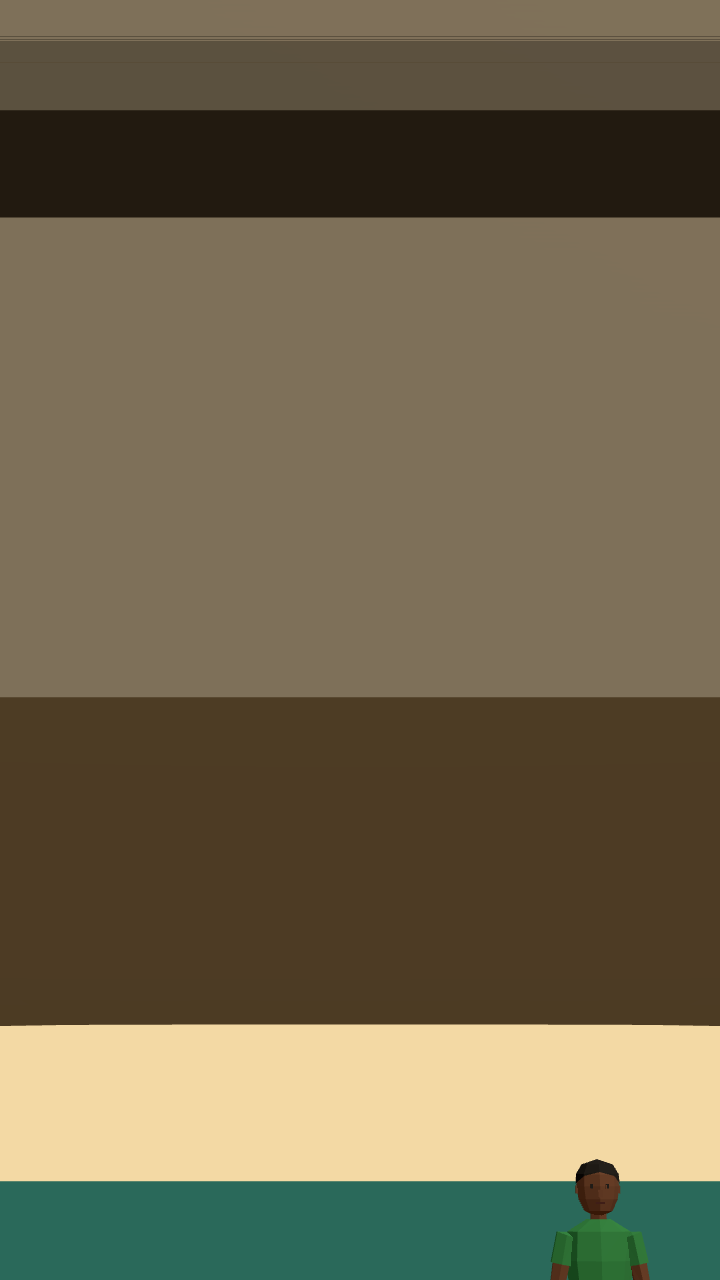
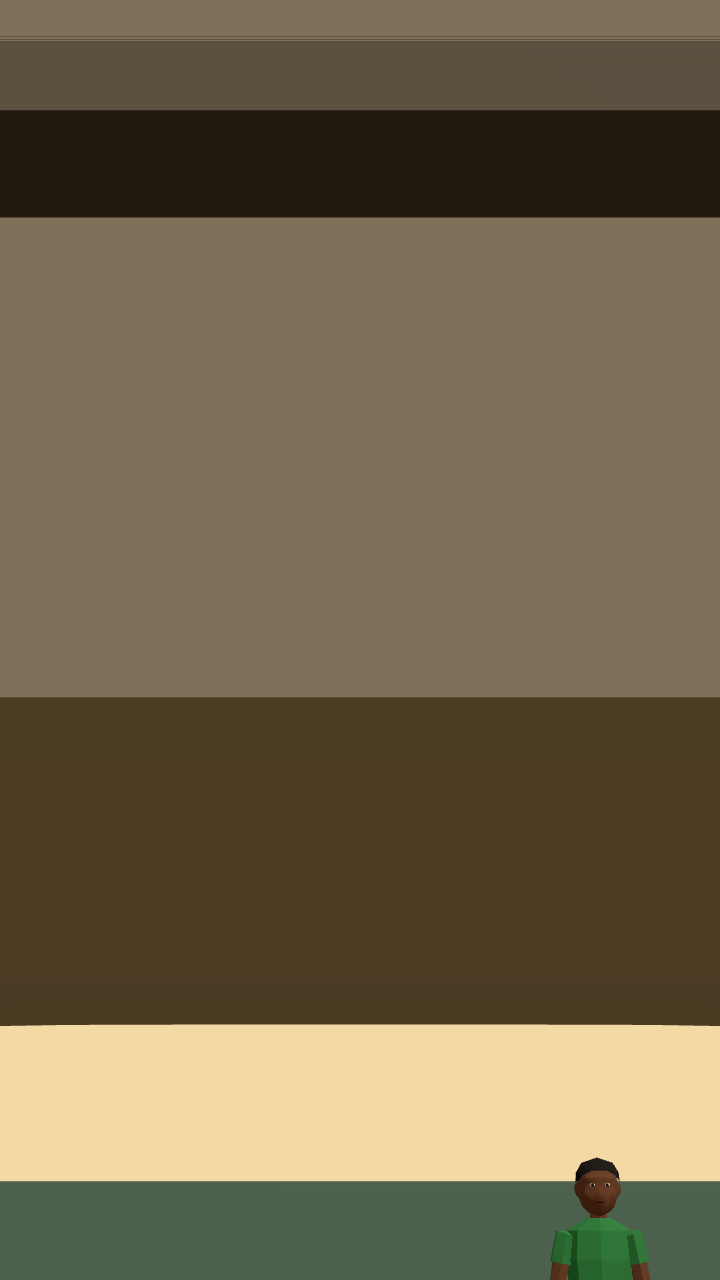
The palette gains lagoon for the bridge's water, and the stage shoots the bridge on it
- the drain's depth recorded as an open question

Changed region(s): [[0.0, 0.9062, 1.0, 1.0]]

diff --git a/tools/assets/catalog.ts b/tools/assets/catalog.ts
@@ -46,7 +46,7 @@ export interface CatalogEntry {
   /** Is one of the six examples later pieces are judged against. */
   example?: boolean;
   /** The ground in the shots, when it is not sand. */
-  ground?: "teal";
+  ground?: "lagoon";
   /** Where the far phone shot stands, when the landmark is first seen from somewhere particular. */
   farView?: { position: [number, number, number]; target: [number, number, number] };
 }
@@ -170,7 +170,7 @@ export const CATALOG: CatalogEntry[] = [
     example: true,
     views: [...ELEVATIONS, "plan", "phone", "phoneFar"],
     // The lagoon, until the palette names a water colour; seen from a canoe, as the photographs are, so the arches show.
-    ground: "teal",
+    ground: "lagoon",
     farView: { position: [40, 2, 260], target: [-90, 6, 0] },
     build: () => staticModel("lm_third-mainland-span", buildBridgeSpan()),
   },

diff --git a/assets-src/stage/stage.ts b/assets-src/stage/stage.ts
@@ -39,7 +39,7 @@ export interface LoadOptions {
   pose?: { rotations: Record<string, [number, number, number]>; hipsY?: number };
   /** A model shown beside the asset in the phone shot for scale. */
   scaleFigure?: { url: string; pose?: LoadOptions["pose"] };
-  /** The ground the asset stands on in the shots: sand, or water for a bridge. */
+  /** The ground the asset stands on in the shots: sand, or the lagoon for a bridge. */
   ground?: PaletteName;
   /** Where the far phone shot stands and looks, when a landmark is first seen from somewhere particular. */
   farView?: { position: [number, number, number]; target: [number, number, number] };

diff --git a/packages/assets/src/palette.ts b/packages/assets/src/palette.ts
@@ -65,6 +65,7 @@ export const palette = {
   roofGreen: 0x3c6e47,
   drain: 0x5b5a55,
   purple: 0x6d2b79,
+  lagoon: 0x4f6f66,
 } as const;
 
 export type PaletteName = keyof typeof palette;
